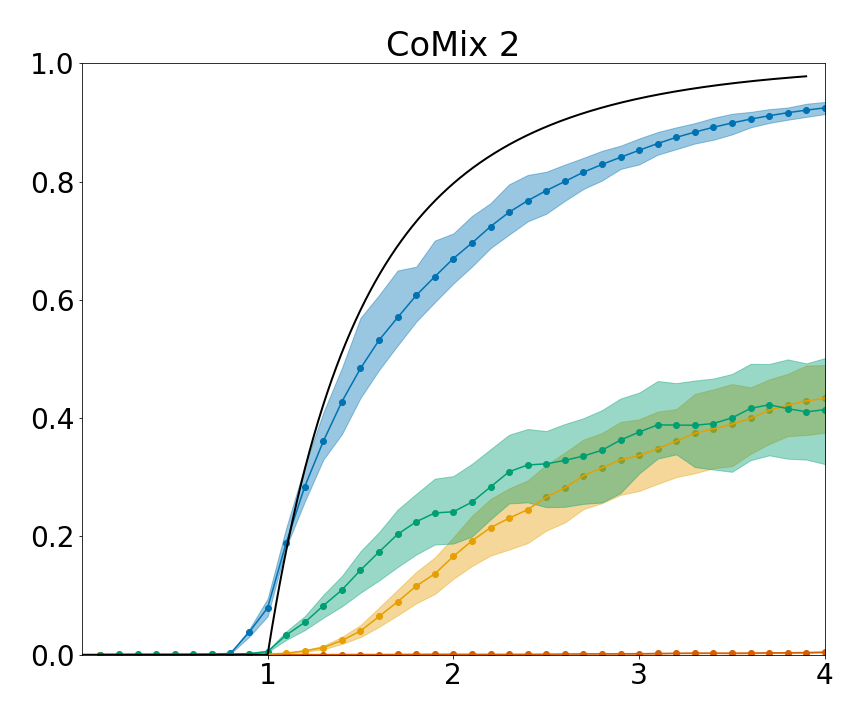
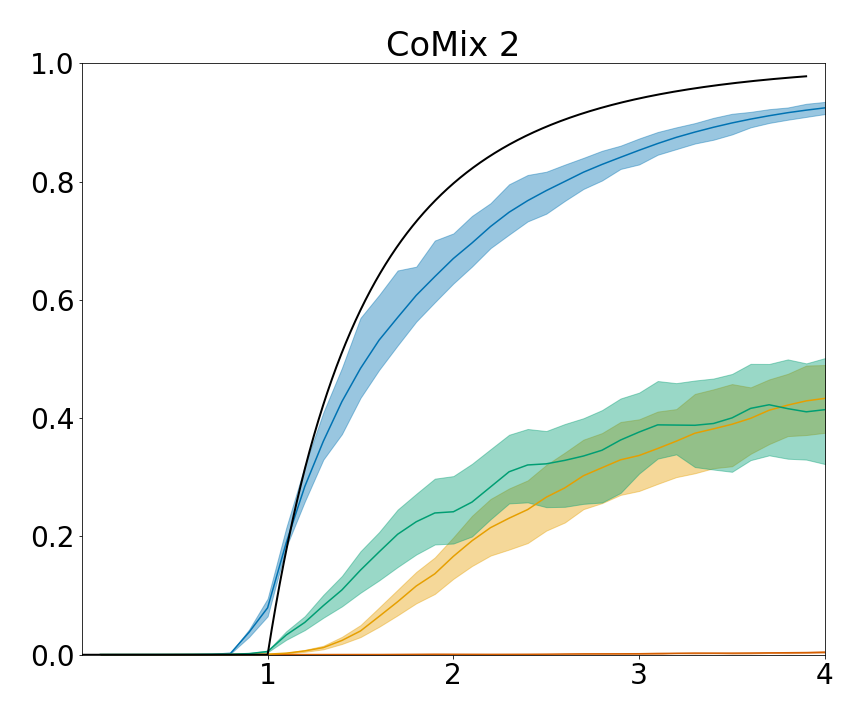
more no age sims 28

diff --git a/_final_sellke_noage_c1.py b/_final_sellke_noage_c1.py
@@ -47,7 +47,7 @@ scales = ['fit1']
 # taus = [[np.arange(0.07,0.11,0.002)]]
 # taus = [[np.arange(0.05,0.11,0.002)]]
 ## 14,15
-taus = [[np.arange(0.2,0.605,0.005)]]
+taus = [[np.arange(0.1,0.605,0.005)]]
 # taus = [[np.arange(0.09,0.4,0.005)]]
 # taus = [[np.arange(0.05,0.3,0.005)]]
 
@@ -72,7 +72,7 @@ for i, data in enumerate(datas):
         #     result['zeros'].append(len([a for a in network['degrees'] if a == 0]))
         #     result['avg_degree'].append(np.mean([a for a in network['degrees']]))
         #     result['max_degree'].append(max([a for a in network['degrees']]))
-        result = nd_p.big_sellke_sims(partitions=partitions,contact_matrix=contact_matrix,network_params=params,n=n,dist_type=model,num_networks=3,iterations=iters, taus=taus[i][j],prop_infec=10/n, scaling=scales[j])
-        with open(f'../output_data/simulations/big/sellke/SIR/27_{data}_{model}_{scales[j]}_noage.json','w') as f:
+        result = nd_p.big_sellke_sims(partitions=partitions,contact_matrix=contact_matrix,network_params=params,n=n,dist_type=model,num_networks=1,iterations=iters, taus=taus[i][j],prop_infec=10/n, scaling=scales[j])
+        with open(f'../output_data/simulations/big/sellke/SIR/28_{data}_{model}_{scales[j]}_noage.json','w') as f:
             json.dump(result, f)
 print('done')

diff --git a/_final_sellke_noage_c2.py b/_final_sellke_noage_c2.py
@@ -72,7 +72,7 @@ for i, data in enumerate(datas):
         #     result['zeros'].append(len([a for a in network['degrees'] if a == 0]))
         #     result['avg_degree'].append(np.mean([a for a in network['degrees']]))
         #     result['max_degree'].append(max([a for a in network['degrees']]))
-        result = nd_p.big_sellke_sims(partitions=partitions,contact_matrix=contact_matrix,network_params=params,n=n,dist_type=model,num_networks=3,iterations=iters, taus=taus[i][j],prop_infec=10/n, scaling=scales[j])
-        with open(f'../output_data/simulations/big/sellke/SIR/27_{data}_{model}_{scales[j]}_noage5.json','w') as f:
+        result = nd_p.big_sellke_sims(partitions=partitions,contact_matrix=contact_matrix,network_params=params,n=n,dist_type=model,num_networks=1,iterations=iters, taus=taus[i][j],prop_infec=10/n, scaling=scales[j])
+        with open(f'../output_data/simulations/big/sellke/SIR/28_{data}_{model}_{scales[j]}_noage5.json','w') as f:
             json.dump(result, f)
 print('done')

diff --git a/_final_sellke_noage_p.py b/_final_sellke_noage_p.py
@@ -74,7 +74,7 @@ for i, data in enumerate(datas):
         #     result['avg_degree'].append(np.mean([a for a in network['degrees']]))
         #     result['max_degree'].append(max([a for a in network['degrees']]))
             
-        result = nd_p.big_sellke_sims(partitions=partitions,contact_matrix=contact_matrix,network_params=params,n=n,dist_type=model,num_networks=3,iterations=iters, taus=taus[i][j],prop_infec=10/n, scaling=scales[j])
-        with open(f'../output_data/simulations/big/sellke/SIR/27_{data}_{model}_{scales[j]}_noage.json','w') as f:
+        result = nd_p.big_sellke_sims(partitions=partitions,contact_matrix=contact_matrix,network_params=params,n=n,dist_type=model,num_networks=1,iterations=iters, taus=taus[i][j],prop_infec=10/n, scaling=scales[j])
+        with open(f'../output_data/simulations/big/sellke/SIR/28_{data}_{model}_{scales[j]}_noage.json','w') as f:
             json.dump(result, f)
 print('done')
